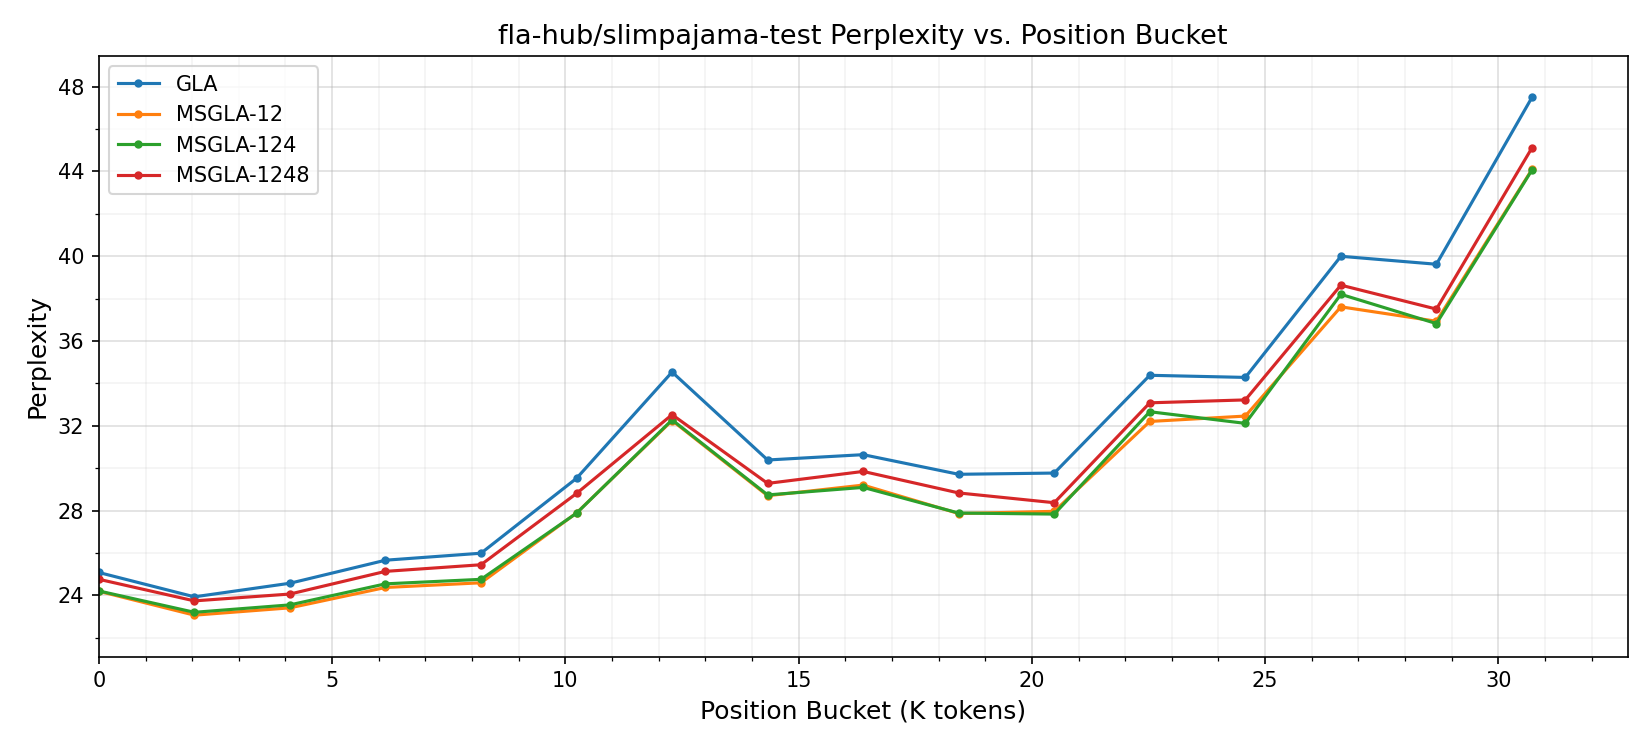
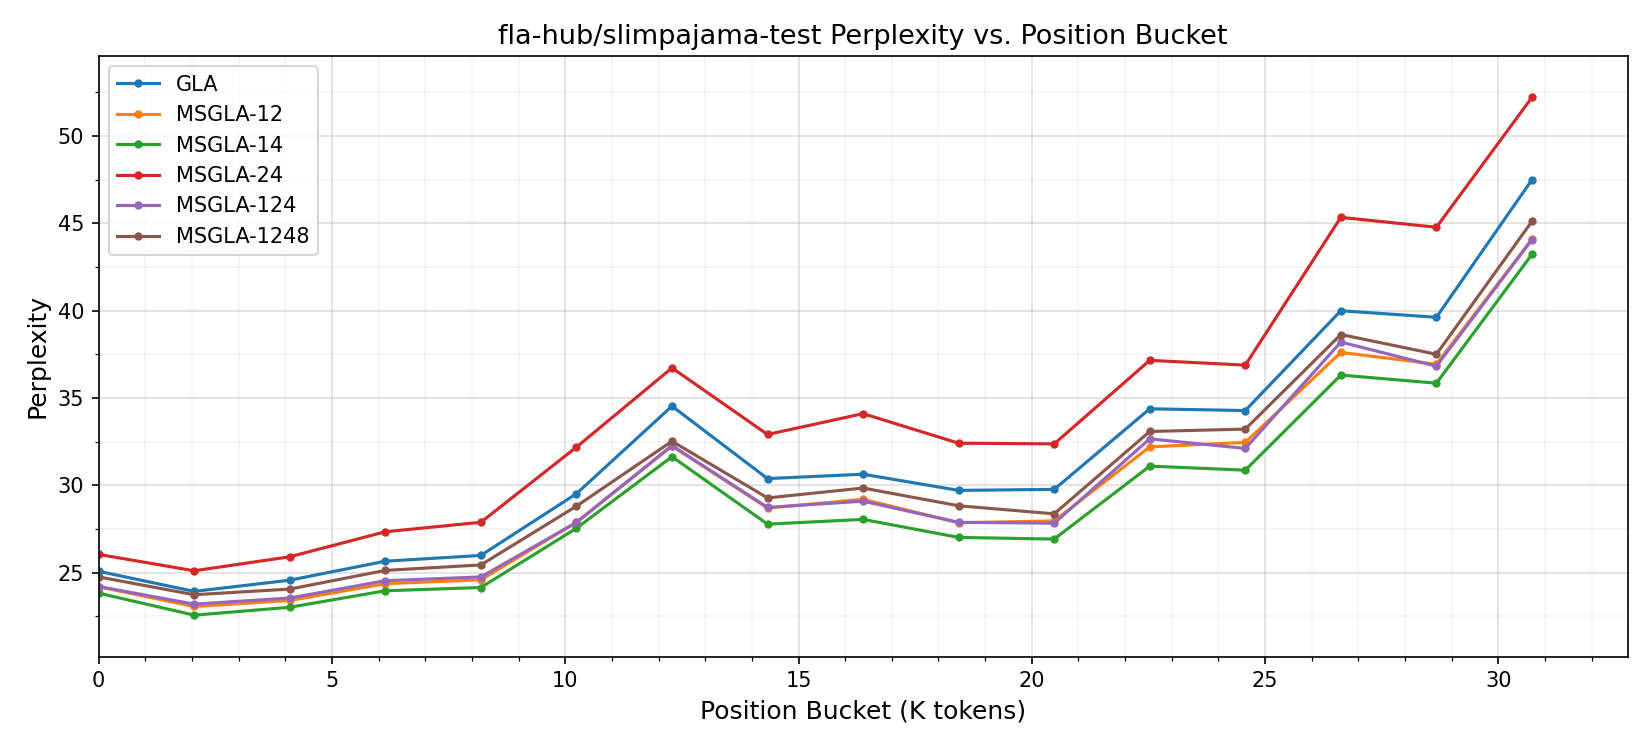
Add ppl results for 14 and 24

diff --git a/plot_perplexity_vs_position.py b/plot_perplexity_vs_position.py
@@ -1,10 +1,10 @@
 #!/usr/bin/env python3
-"""Plot perplexity vs. position bucket for GLA/MSGLA result JSON files.
+"""Plot perplexity vs. position bucket for GLA + MSGLA slimpg19 result JSON files.
 
-By default this script reads four model result files and writes one plot per
-shared dataset. With the provided files, that produces two plots:
-- pg19
-- slimpajama-test
+By default this script discovers all variants in:
+benchmark_msgla/results/7B/*/slimpg19/*.json
+and also includes benchmark_gla/results/7B/slimpg19/gla_results.json.
+It writes one plot per shared dataset (e.g., pg19, slimpajama-test).
 """
 
 from __future__ import annotations
@@ -23,24 +23,14 @@ def parse_args() -> argparse.Namespace:
         description="Plot perplexity vs. position bucket for multiple models.",
     )
     parser.add_argument(
+        "--results-root",
+        default="benchmark_msgla/results/7B",
+        help="Root directory that contains per-variant folders (e.g., 12, 14, 24).",
+    )
+    parser.add_argument(
         "--gla-json",
         default="benchmark_gla/results/7B/slimpg19/gla_results.json",
-        help="Path to GLA JSON results.",
-    )
-    parser.add_argument(
-        "--msgla12-json",
-        default="benchmark_msgla/results/7B/12/slimpg19/msgla_12_results.json",
-        help="Path to MSGLA-12 JSON results.",
-    )
-    parser.add_argument(
-        "--msgla124-json",
-        default="benchmark_msgla/results/7B/124/slimpg19/msgla_124_results.json",
-        help="Path to MSGLA-124 JSON results.",
-    )
-    parser.add_argument(
-        "--msgla1248-json",
-        default="benchmark_msgla/results/7B/1248/slimpg19/msgla_1248_results.json",
-        help="Path to MSGLA-1248 JSON results.",
+        help="Path to GLA slimpg19 JSON results.",
     )
     parser.add_argument(
         "--output-dir",
@@ -54,6 +44,43 @@ def parse_args() -> argparse.Namespace:
         help="Upper bound (inclusive) for x-axis bucket positions.",
     )
     return parser.parse_args()
+
+
+def variant_sort_key(variant_name: str) -> tuple[int, int | str]:
+    try:
+        return (0, int(variant_name))
+    except ValueError:
+        return (1, variant_name)
+
+
+def discover_variant_jsons(results_root: Path) -> Dict[str, Path]:
+    if not results_root.exists():
+        raise FileNotFoundError(f"Missing results root: {results_root}")
+
+    candidate_paths = sorted(
+        p for p in results_root.glob("*/slimpg19/*.json") if p.is_file()
+    )
+    if not candidate_paths:
+        raise FileNotFoundError(
+            f"No result JSONs found at {results_root}/<variant>/slimpg19/*.json"
+        )
+
+    variant_to_path: Dict[str, Path] = {}
+    for path in candidate_paths:
+        variant = path.parent.parent.name
+        if variant in variant_to_path:
+            print(
+                "Warning: multiple slimpg19 JSON files found for variant "
+                f"{variant}; using {variant_to_path[variant]} and skipping {path}"
+            )
+            continue
+        variant_to_path[variant] = path
+
+    model_paths: Dict[str, Path] = {}
+    for variant in sorted(variant_to_path.keys(), key=variant_sort_key):
+        model_paths[f"MSGLA-{variant}"] = variant_to_path[variant]
+
+    return model_paths
 
 
 def load_curves_by_dataset(json_path: Path) -> Dict[str, Dict[int, float]]:
@@ -157,12 +184,16 @@ def maybe_plot(
 def main() -> None:
     args = parse_args()
 
-    model_paths = {
-        "GLA": Path(args.gla_json),
-        "MSGLA-12": Path(args.msgla12_json),
-        "MSGLA-124": Path(args.msgla124_json),
-        "MSGLA-1248": Path(args.msgla1248_json),
-    }
+    msgla_model_paths = discover_variant_jsons(Path(args.results_root))
+    print(
+        f"Discovered {len(msgla_model_paths)} MSGLA variants under {args.results_root}."
+    )
+    for label, path in msgla_model_paths.items():
+        print(f"  {label}: {path}")
+
+    model_paths: Dict[str, Path] = {"GLA": Path(args.gla_json)}
+    model_paths.update(msgla_model_paths)
+    print(f"  GLA: {args.gla_json}")
 
     curves_by_model_and_dataset: Dict[str, Dict[str, Dict[int, float]]] = {
         label: load_curves_by_dataset(path) for label, path in model_paths.items()
@@ -176,7 +207,7 @@ def main() -> None:
     )
 
     if not shared_datasets:
-        raise RuntimeError("No shared datasets found across all four result files.")
+        raise RuntimeError("No shared datasets found across discovered result files.")
 
     output_dir = Path(args.output_dir)
     for dataset_name in sorted(shared_datasets):